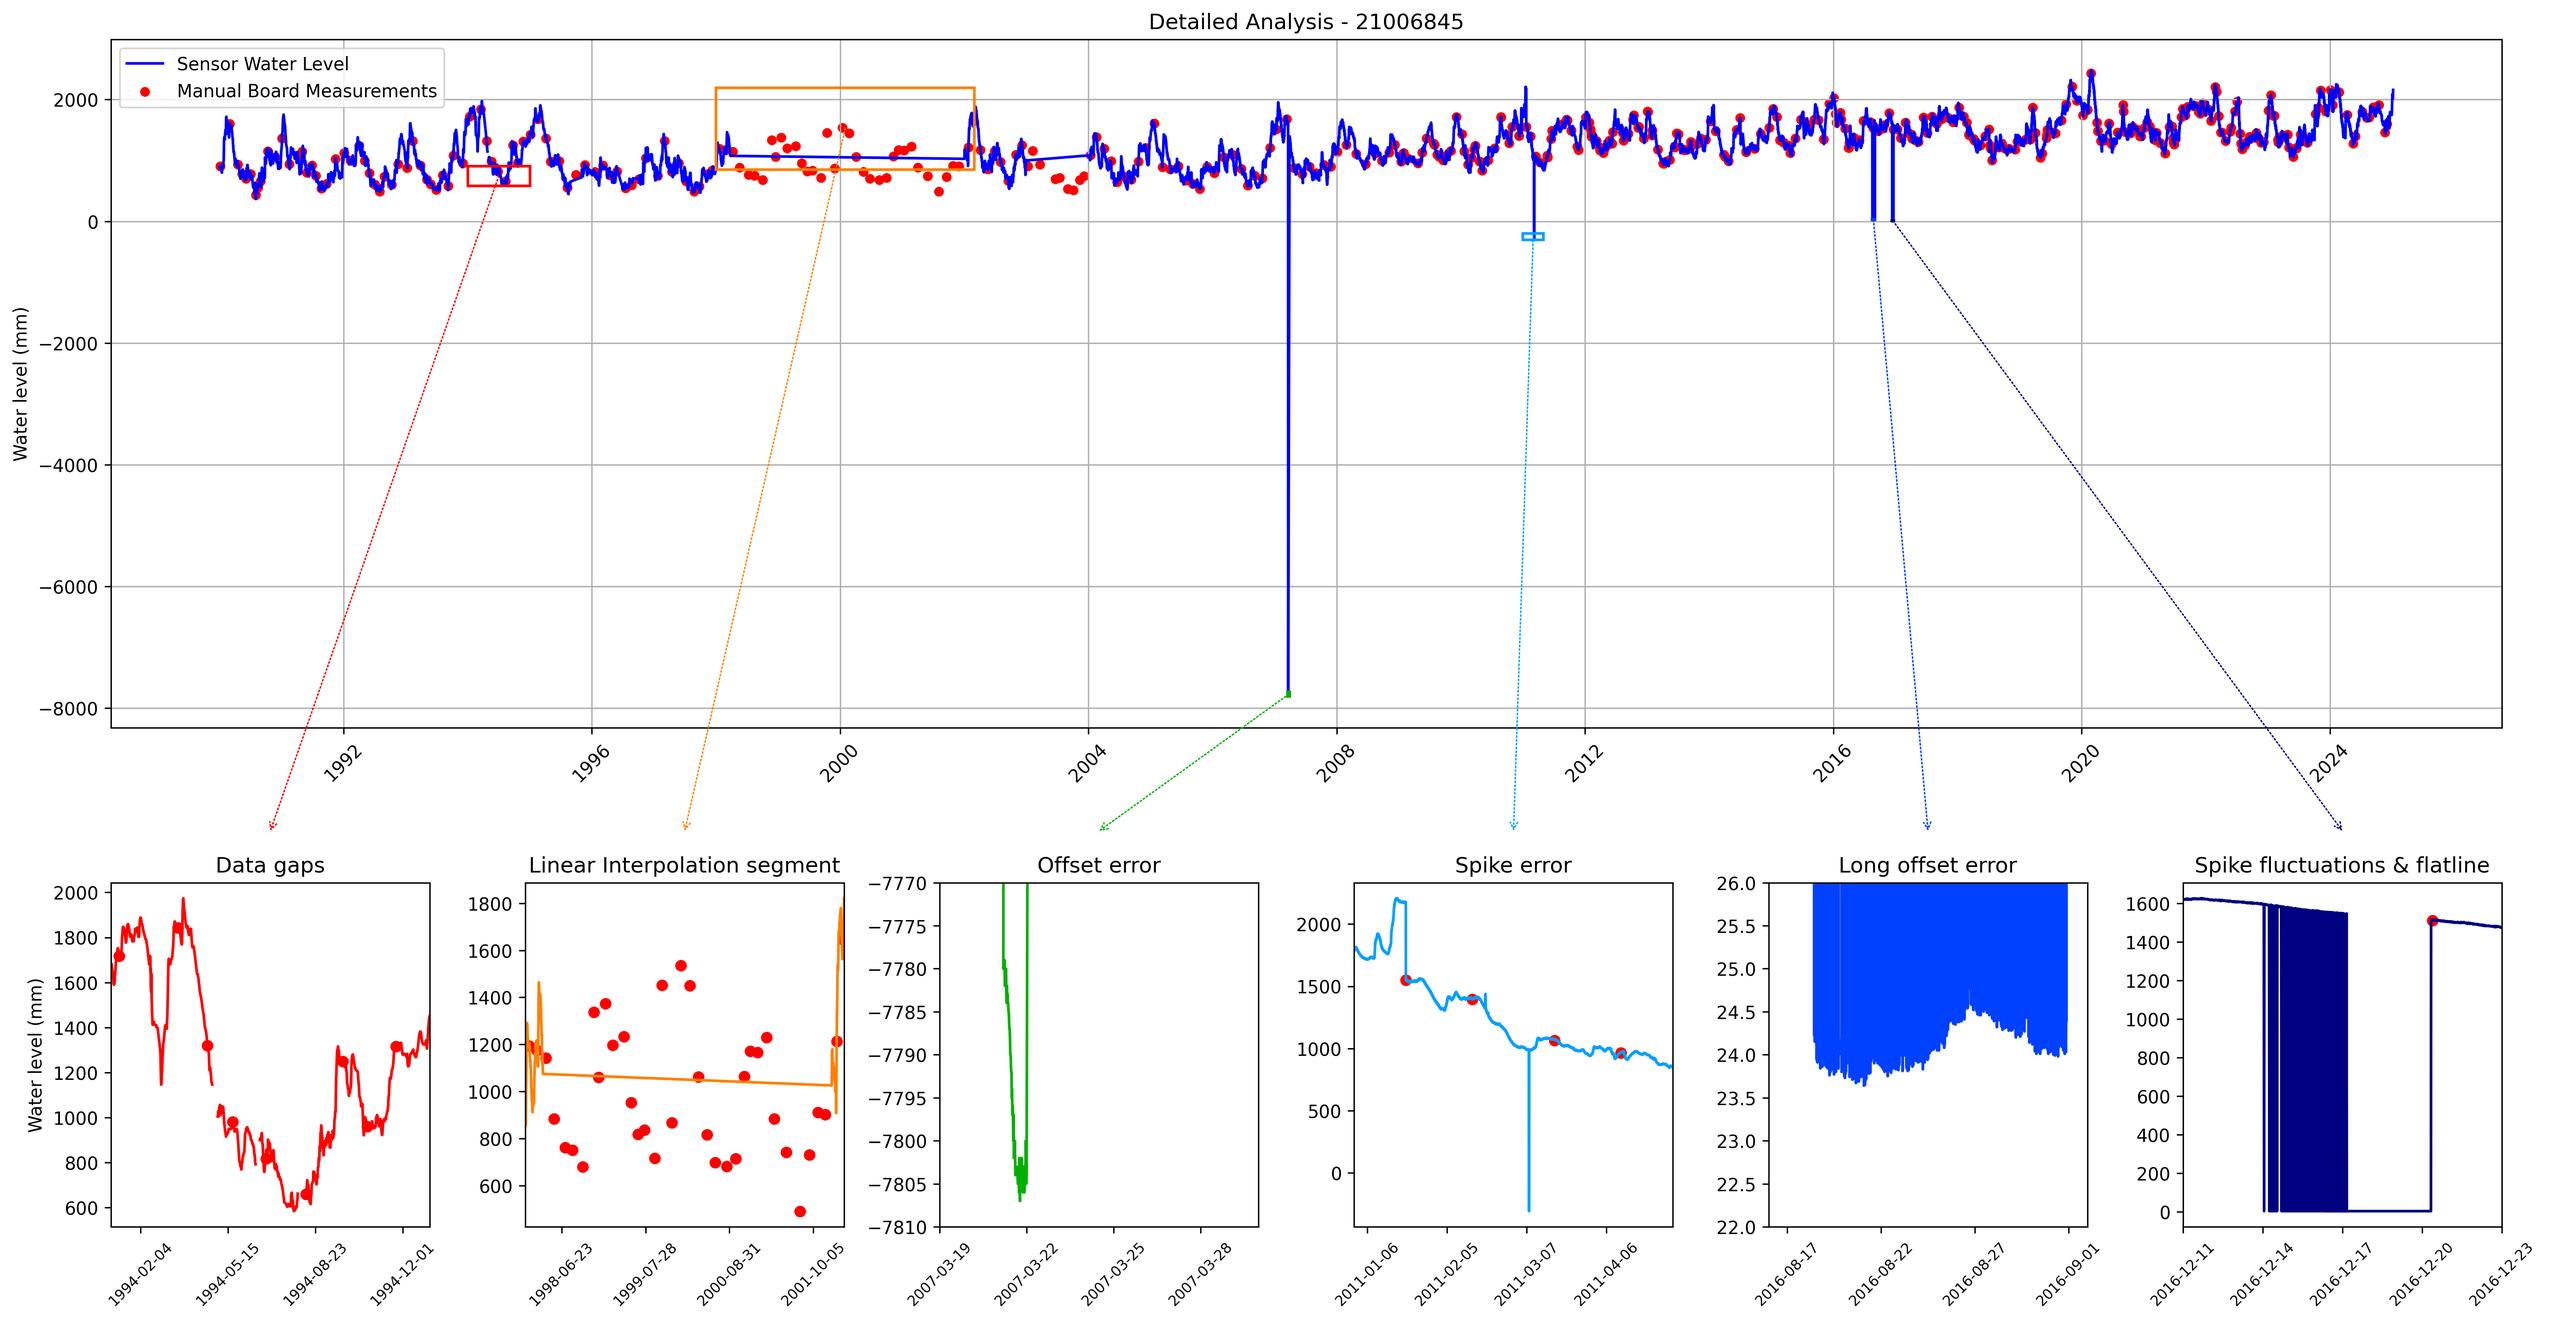
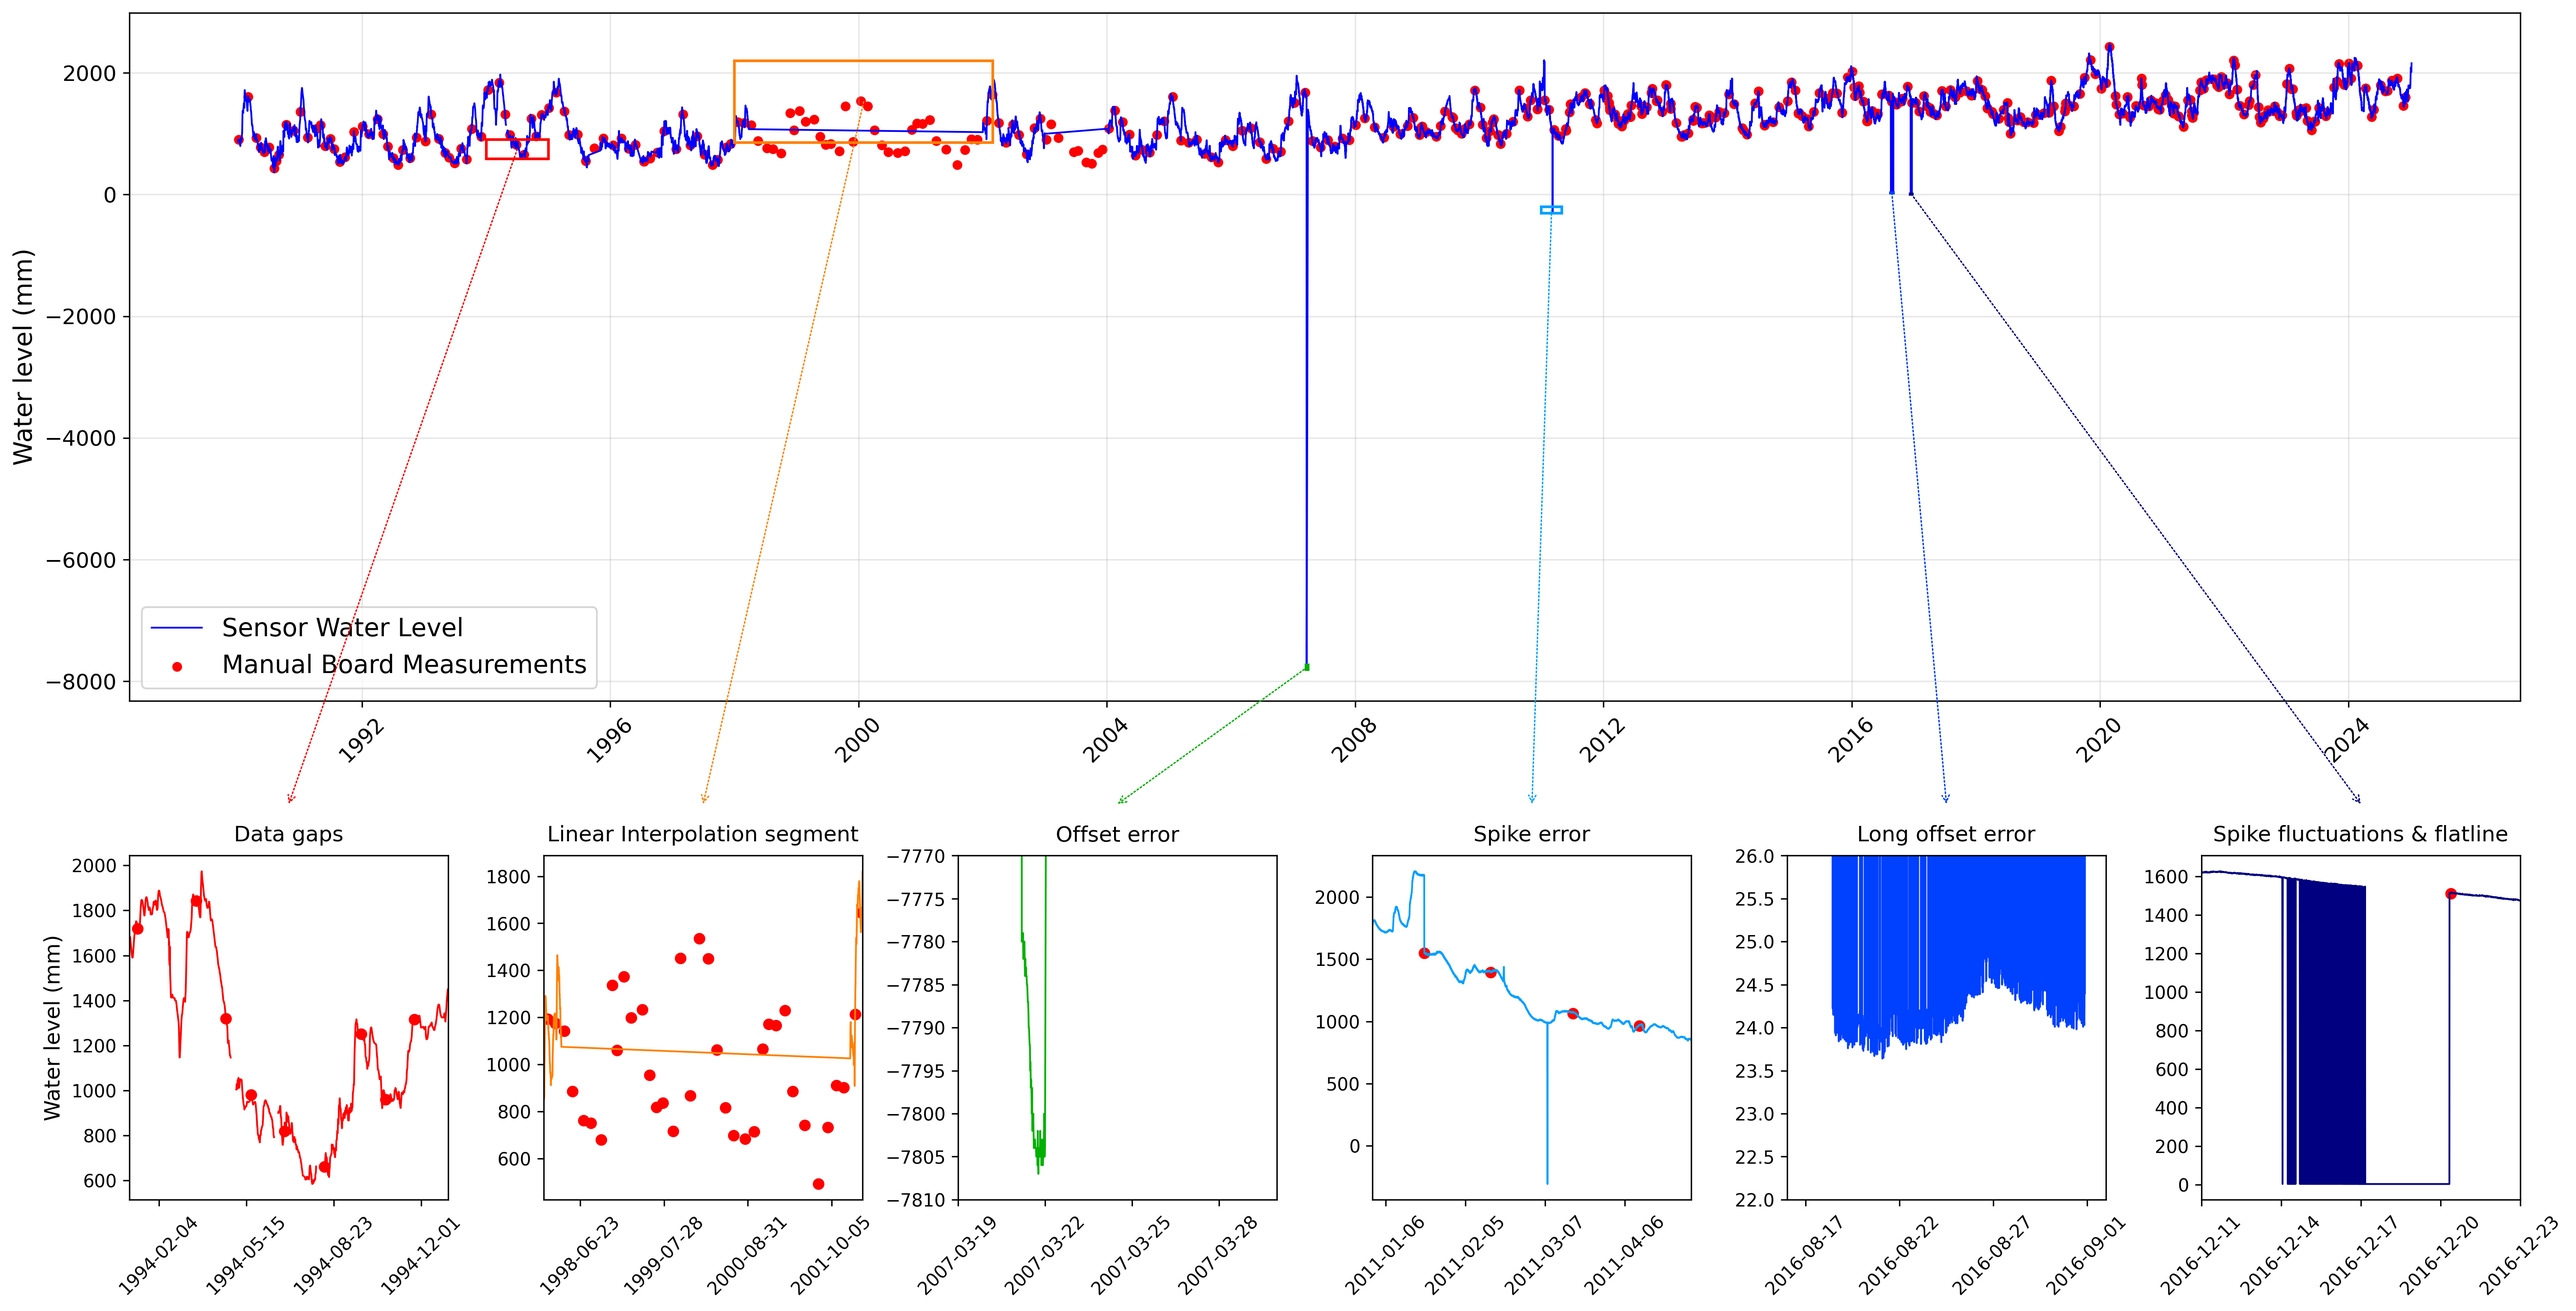
syyyg

diff --git a/Oliver/plotting/error_plots.py b/Oliver/plotting/error_plots.py
@@ -28,23 +28,23 @@ def create_detailed_plot(data, time_windows, folder):
     # Main plot spanning all columns
     ax_main = fig.add_subplot(gs[0, :])
     ax_main.plot(data['vst_raw']['Date'], data['vst_raw']['Value'], 
-                'b-', label='Sensor Water Level')
+                'b-', label='Sensor Water Level', linewidth=1)
     
     if data['vinge'] is not None:
         ax_main.scatter(data['vinge']['Date'], data['vinge']['W.L [cm]'], 
                        color='red', s=20, label='Manual Board Measurements')
     
-    ax_main.set_title(f'Detailed Analysis - {folder}')
-    ax_main.grid(True)
-    ax_main.legend()
+    ax_main.grid(True, alpha=0.3)
+    ax_main.legend(fontsize=14)
 
     # Add dynamic date formatter that changes based on zoom level
     locator = mdates.AutoDateLocator()
     formatter = mdates.ConciseDateFormatter(locator)
     ax_main.xaxis.set_major_locator(locator)
     ax_main.xaxis.set_major_formatter(formatter)
-    ax_main.tick_params(axis='x', rotation=45)
-    ax_main.set_ylabel('Water level (mm)')
+    ax_main.tick_params(axis='x', rotation=45, labelsize=12)
+    ax_main.tick_params(axis='y', labelsize=12)
+    ax_main.set_ylabel('Water level (mm)', fontsize=14)
 
     # Plot each subplot without sharing the y-axis
     for i in range(6):
@@ -70,7 +70,7 @@ def create_detailed_plot(data, time_windows, folder):
                       color='red', s=30)
         
         if len(window_data) > 0:
-            ax.plot(window_data['Date'], window_data['Value'], color=colors[i])
+            ax.plot(window_data['Date'], window_data['Value'], color=colors[i], linewidth=1)
             
             # Set custom y-axis range if specified
             if y_range is not None:
@@ -89,11 +89,12 @@ def create_detailed_plot(data, time_windows, folder):
         ax.xaxis.set_major_formatter(mdates.DateFormatter('%Y-%m-%d'))
         
         # Customize subplot
-        ax.set_title(title)
+        ax.set_title(title, fontsize=12, pad=8)
         ax.grid(False)
-        ax.tick_params(axis='x', rotation=45, labelsize=8)
+        ax.tick_params(axis='x', rotation=45, labelsize=10)
+        ax.tick_params(axis='y', labelsize=10)
         if i == 0:
-            ax.set_ylabel('Water level (mm)')
+            ax.set_ylabel('Water level (mm)', fontsize=12)
 
     # Adjust layout first
     plt.tight_layout()
@@ -164,33 +165,86 @@ def create_detailed_plot(data, time_windows, folder):
                 fig.add_artist(con)
     
     # Save the plot
+    dpi = 300
     plot_dir = Path(r"C:\Users\olive\OneDrive\GitHub\MasterThesis\plots")
     plot_dir.mkdir(exist_ok=True)
-    plt.savefig(plot_dir / f'detailed_analysis_{folder}.png', dpi=300, bbox_inches='tight')
+    plt.savefig(plot_dir / f'detailed_analysis_{folder}.png', dpi=dpi, bbox_inches='tight')
     plt.close()
 
-def plot_all_errors(data, folder):
-    """Create a comprehensive plot showing all detected error types using Plotly."""
+
+def plot_all_errors(data, folder, include_rain=True, include_edt=True):
+    """Create a comprehensive plot showing all detected error types using Plotly.
+    
+    Args:
+        data (dict): Dictionary containing all data
+        folder (str): Folder name/station ID
+        include_rain (bool): Whether to include rainfall data in plot (default: True)
+        include_edt (bool): Whether to include edited data in plot (default: True)
+    """
     # Initialize error analyzer
     analyzer = ErrorAnalyzer(data['vst_raw'])
     
-    # Create figure with plotly-resampler
-    fig = FigureResampler(go.Figure())
+    # Create figure with two rows and shared x-axis
+    fig = make_subplots(
+        rows=2, cols=1,
+        row_heights=[0.2, 0.8],  # Rainfall plot takes 20% of height
+        vertical_spacing=0.02,
+        specs=[[{"secondary_y": False}],
+               [{"secondary_y": False}]],
+        shared_xaxes=True
+    )
+    fig = FigureResampler(fig)
     
+    # Add rainfall data in top subplot if available and requested
+    if include_rain and 'rain' in data and data['rain'] is not None:
+        daily_rain = data['rain'].set_index('datetime')\
+            .resample('D')['precipitation (mm)']\
+            .sum()\
+            .reset_index()
+        
+        fig.add_trace(
+            go.Bar(
+                name='Daily Rainfall',
+                x=daily_rain['datetime'],
+                y=daily_rain['precipitation (mm)'],
+                marker_color='blue',
+                opacity=0.3,
+                width=24*60*60*1000,
+                showlegend=True,
+                hovertemplate='Date: %{x}<br>Daily Rainfall: %{y:.1f} mm<extra></extra>'
+            ),
+            row=1, col=1
+        )
+
+    # Add edited data if available and requested
+    if include_edt and data['vst_edt'] is not None:
+        fig.add_trace(
+            go.Scattergl(
+                name='Edited Data',
+                line=dict(color='red', width=1, dash='dash'),
+                showlegend=True,
+                hovertemplate='Date: %{x}<br>Value: %{y:.2f} mm<extra></extra>'
+            ),
+            hf_x=data['vst_edt']['Date'],
+            hf_y=data['vst_edt']['Value'],
+            row=2, col=1
+        )
+
     # Add main water level data with reduced opacity
     fig.add_trace(
         go.Scattergl(
-            name='Water Level',
+            name='Original Data',
             showlegend=True,
-            opacity=0.5,
             line=dict(color='black', width=1),
+            opacity=0.5,
             hovertemplate='Date: %{x}<br>Value: %{y:.2f} mm<extra></extra>'
         ),
         hf_x=analyzer.df.index,
-        hf_y=analyzer.df[analyzer.value_column]
+        hf_y=analyzer.df[analyzer.value_column],
+        row=2, col=1
     )
-    
-    # Add manual measurements if available with smaller markers
+
+    # Add manual measurements if available
     if data['vinge'] is not None:
         fig.add_trace(
             go.Scatter(
@@ -198,15 +252,17 @@ def plot_all_errors(data, folder):
                 mode='markers',
                 marker=dict(
                     color='red',
-                    size=6,  # Reduced from 10
+                    size=6,
                     symbol='diamond'
                 ),
                 x=data['vinge']['Date'],
                 y=data['vinge']['W.L [cm]'],
+                showlegend=True,
                 hovertemplate='Manual Reading<br>Date: %{x}<br>Value: %{y:.2f} mm<extra></extra>'
-            )
+            ),
+            row=2, col=1
         )
-    
+
     # Detect and add gaps with vertical lines
     gaps = analyzer.detect_gaps(min_gap_hours=48.0)
     gap_dates = analyzer.df[gaps].index
@@ -222,7 +278,8 @@ def plot_all_errors(data, folder):
                 y=[value - 200, value + 200],  # Vertical line ±200mm
                 showlegend=False,
                 hovertemplate='Data Gap<br>At: %{x}<extra></extra>'
-            )
+            ),
+            row=2, col=1
         )
     
     # Detect and add frozen values with highlighted regions
@@ -241,7 +298,8 @@ def plot_all_errors(data, folder):
                 x=frozen_dates,
                 y=frozen_values,
                 hovertemplate='Frozen Values<br>Date: %{x}<br>Value: %{y:.2f} mm<extra></extra>'
-            )
+            ),
+            row=2, col=1
         )
     
     # Detect and add point anomalies with single markers at their center
@@ -268,8 +326,10 @@ def plot_all_errors(data, folder):
                 x=anomaly_x,
                 y=anomaly_y,
                 hovertemplate='Point Anomaly<br>Date: %{x}<br>Value: %{y:.1f}mm<extra></extra>'
-            )
+            ),
+            row=2, col=1
         )
+
     
     # Detect and add offsets with highlighted regions and annotations
     offsets = analyzer.detect_offsets()
@@ -296,7 +356,8 @@ def plot_all_errors(data, folder):
                     f'Magnitude: {magnitude:.1f}mm'
                     '<extra></extra>'
                 )
-            )
+            ),
+            row=2, col=1
         )
         
         # Calculate middle of offset period
@@ -308,7 +369,8 @@ def plot_all_errors(data, folder):
             line_dash="dot",
             line_color="green",
             line_width=1,
-            opacity=0.7
+            opacity=0.7,
+            row=2, col=1
         )
         
         # Add annotation for offset magnitude
@@ -320,8 +382,9 @@ def plot_all_errors(data, folder):
                 text=[f'↕ {magnitude:.0f}mm'],
                 textposition='middle right',
                 showlegend=False,
-                hoverinfo='skip'
-            )
+                hoverinfo='skip',
+            ),
+            row=2, col=1
         )
         first_offset = False
     
@@ -336,12 +399,14 @@ def plot_all_errors(data, folder):
                 y=[None],
                 mode='lines',
                 line=dict(width=10, color='rgba(255, 0, 0, 0.1)'),
-                name='Drift Period'
-            )
+                name='Drift Period',
+            ),
+            row=2, col=1
         )
         
         # Add colored rectangles for drift periods
         for _, drift in drift_stats.iterrows():
+            # Add vrect without row parameter in the dict
             fig.add_vrect(
                 x0=drift['start_date'],
                 x1=drift['end_date'],
@@ -364,43 +429,29 @@ def plot_all_errors(data, folder):
                     textposition='top center',
                     showlegend=False,
                     hoverinfo='skip'
-                )
+                ),
+                row=2, col=1
             )
     
-    # Update layout with improved styling
+    # Update layout
     fig.update_layout(
-        title=dict(
-            text=f'Error Analysis Overview - Station {folder}',
-            font=dict(size=24)
-        ),
-        yaxis_title='Water level (mm)',
-        xaxis_title='Date',
-        template='plotly_white',
         height=800,
-        hovermode='x unified',
+        title_text=f"Error Analysis Overview - Station {folder}",
         showlegend=True,
-        legend=dict(
-            yanchor="top",
-            y=0.99,
-            xanchor="left",
-            x=0.01,
-            bgcolor='rgba(255, 255, 255, 0.8)',
-            bordercolor='rgba(0, 0, 0, 0.3)',
-            borderwidth=1
-        ),
+        hovermode='closest',
+        margin=dict(t=100, b=50, l=50, r=50),
+        font=dict(size=14),
+        title_font=dict(size=24),
+        template='plotly_white',
         plot_bgcolor='white',
-        paper_bgcolor='white',
-        xaxis=dict(
-            showgrid=True,
-            gridcolor='rgba(0, 0, 0, 0.1)',
-            zeroline=False
-        ),
-        yaxis=dict(
-            showgrid=True,
-            gridcolor='rgba(0, 0, 0, 0.1)',
-            zeroline=False
-        )
+        paper_bgcolor='white'
     )
+    
+    # Update axes labels
+    fig.update_xaxes(title_text="Time", title_font=dict(size=16), row=2, col=1)
+    fig.update_xaxes(showticklabels=False, row=1, col=1)
+    fig.update_yaxes(title_text="Rainfall (mm)", title_font=dict(size=16), row=1, col=1)
+    fig.update_yaxes(title_text="Water Level (mm)", title_font=dict(size=16), row=2, col=1)
     
     # Show the figure
     fig.show_dash(mode='inline', port=8050 + int(folder[-1])) 
